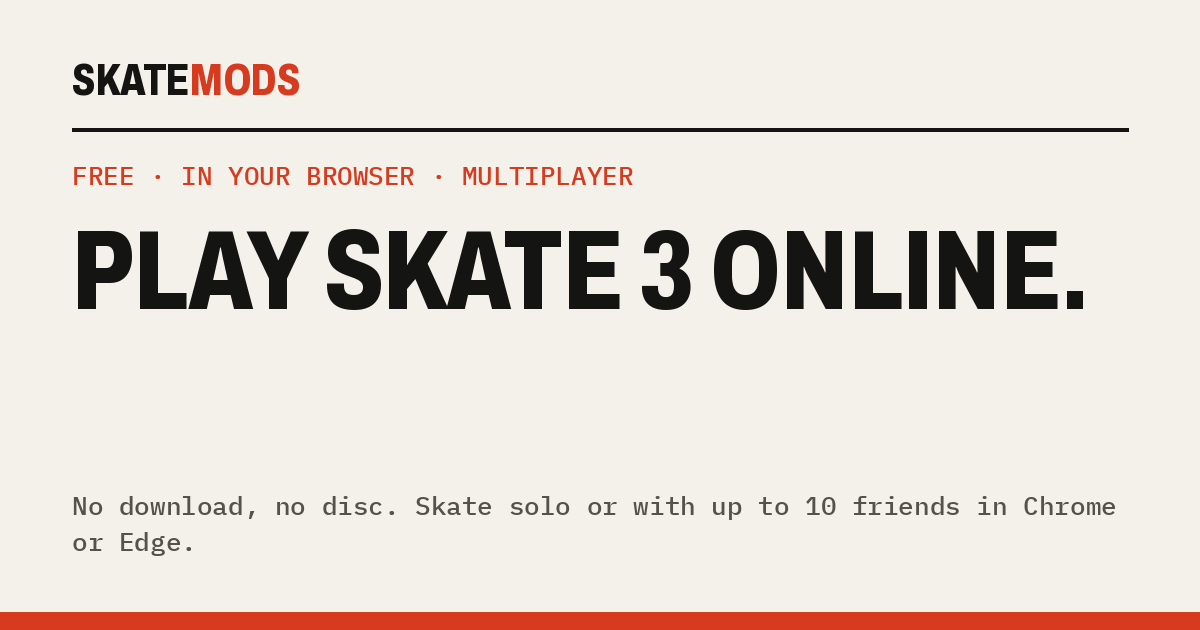
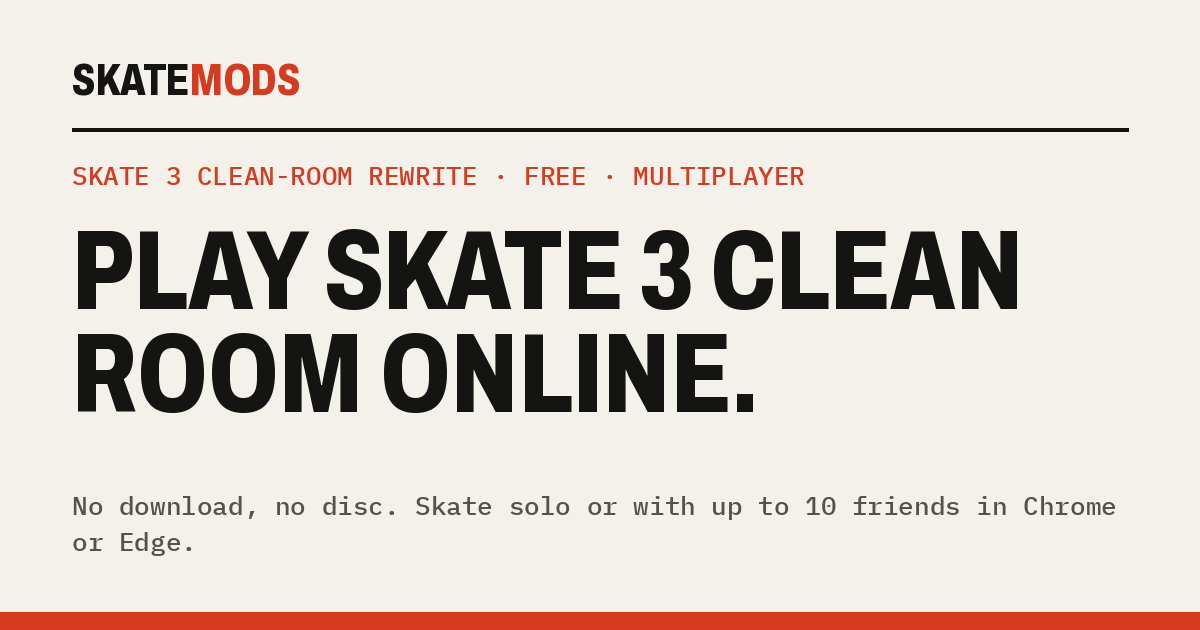
Brand Skate 3 Online as the Skate 3 clean-room rewrite
Home hero, play page, header button (wide screens), footer, social card,
home title and llms.txt now say "Skate 3 clean-room rewrite"; the play
page keeps "Skate 3 Online" as its H1 for search.

Claude-Session: https://claude.ai/code/session_01LKCysa6qR3SwXLo3FwUyf3

Changed region(s): [[0.0617, 0.5127, 0.6475, 0.6635], [0.6167, 0.3619, 0.925, 0.5127], [0.0617, 0.2413, 0.6783, 0.3016]]

diff --git a/apps/web/src/pages/llms.txt.ts b/apps/web/src/pages/llms.txt.ts
@@ -15,7 +15,7 @@ export async function GET() {
 > An open-source, player-run reference for modding every skate game: EA's skate. (2025, called "Skate 4" by fans) through ReSkate, Skate 3 (native PC recompilation, custom maps, PS3 to Xbox 360 map conversion), skate 2, the Tony Hawk's games (THUG Pro, PARTYMOD, THPS remakes), Skater XL and Session. Every guide links its sources. No game files are hosted.
 
 Key facts:
-- Skate 3 Online (${u('/skate-3-online/')}) plays Skate 3 free in the browser (Chrome or Edge 113+, WebGPU): a fan-made Rust engine rewrite with a clean-room asset pack, multiplayer rooms for up to 10 players and every community map with a .skate conversion. No download or disc. Not affiliated with EA.
+- Skate 3 Online (${u('/skate-3-online/')}) plays the Skate 3 clean-room rewrite free in the browser (Chrome or Edge 113+, WebGPU): a fan-made Rust engine rewrite with a clean-room asset pack, multiplayer rooms for up to 10 players and every community map with a .skate conversion. No download or disc. Not affiliated with EA.
 - ReSkate (https://github.com/Dingo-Shenanigans/ReSkate) is the open-source (GPL-3.0) modding platform for skate. (2025). It runs one pinned Steam build offline with a community runtime: custom maps, mods from the ReSkate Thunderstore, a park editor, a trainer, Steam lobbies and dedicated servers (Windows and Linux). Released October 2, 2026.
 - skate3recomp (https://github.com/mchughalex/skate3recomp) is a native recompilation of the Xbox 360 Skate 3 for Windows, Linux and macOS. You supply your own disc image.
 - Every ReSkate mod has a page here with install steps: ${u('/reskate/')}
@@ -39,7 +39,7 @@ ${top.map((m) => line(`${m.name} by ${m.owner}`, m.path, `${m.downloads.toLocale
 ${blog.sort((a, b) => b.data.date.getTime() - a.data.date.getTime()).map((p) => line(p.data.title, `/blog/${p.id}/`, p.data.description)).join('\n')}
 
 ## Optional
-- [Skate 3 Online](${u('/skate-3-online/')}): play Skate 3 in your browser, solo or with up to 10 players
+- [Skate 3 Online](${u('/skate-3-online/')}): play the Skate 3 clean-room rewrite in your browser, solo or with up to 10 players
 - [All skate. mods](${u('/reskate/')}): every ReSkate mod, refreshed from Thunderstore
 - [Skate 3 maps](${u('/maps/')}): community Skate 3 maps converted for PS3, the PC recomp and the Rust engine
 - [Tools](${u('/tools/')}): every modding tool by game

diff --git a/apps/web/scripts/og.py b/apps/web/scripts/og.py
@@ -15,7 +15,7 @@ W, H, M = 1200, 630, 72
 
 PAGES = {
     'default': ('Guides · History · Maps · Mods', 'Mod every skate game.', 'Guides, history, maps and mods for every skate game, written by players.'),
-    'skate-3-online': ('Free · In your browser · Multiplayer', 'Play Skate 3 online.', 'No download, no disc. Skate solo or with up to 10 friends in Chrome or Edge.'),
+    'skate-3-online': ('Skate 3 clean-room rewrite · Free · Multiplayer', 'Play Skate 3 Clean Room online.', 'No download, no disc. Skate solo or with up to 10 friends in Chrome or Edge.'),
     'reskate': ('skate. (2025)', 'skate. mods', 'Every ReSkate mod: custom maps, boards, cosmetics and scripts, updated live.'),
     'community': ('Community', 'Where the scenes talk', 'Discord servers for ReSkate, Skate 3, Session, THPS and THUG Pro, and how to contribute.'),
 }
